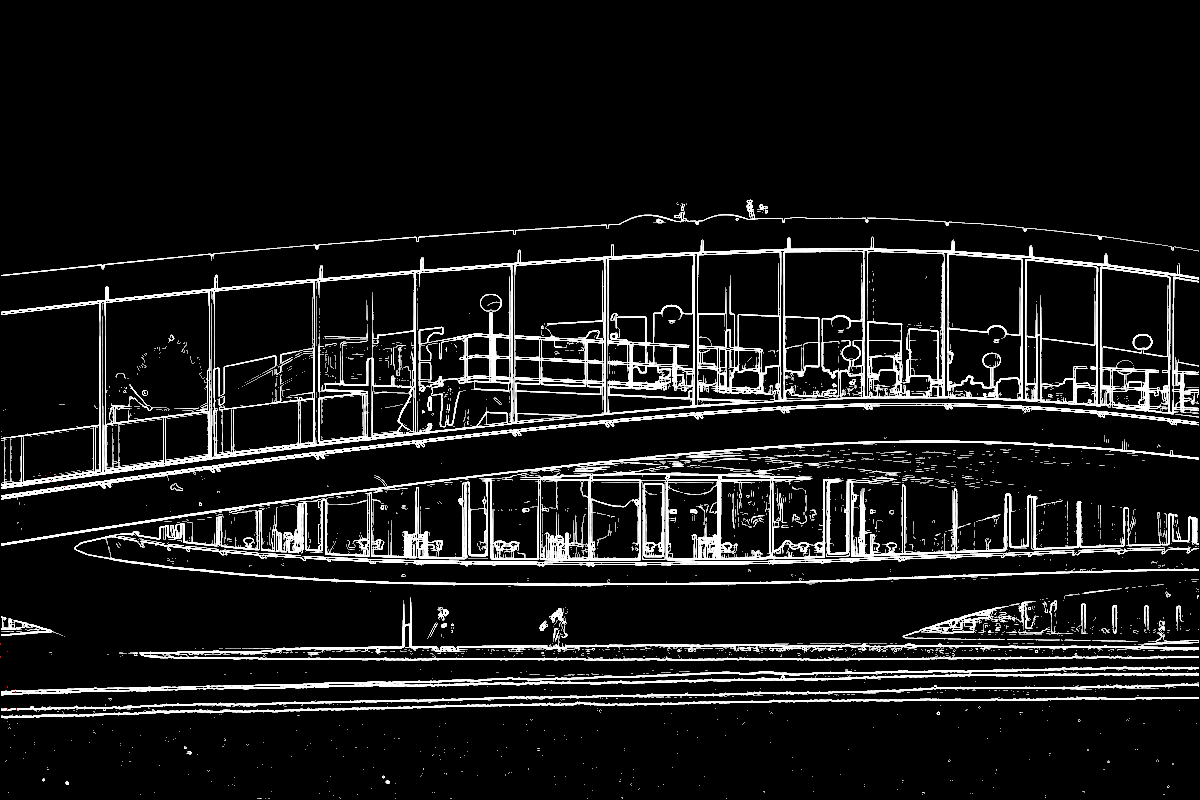
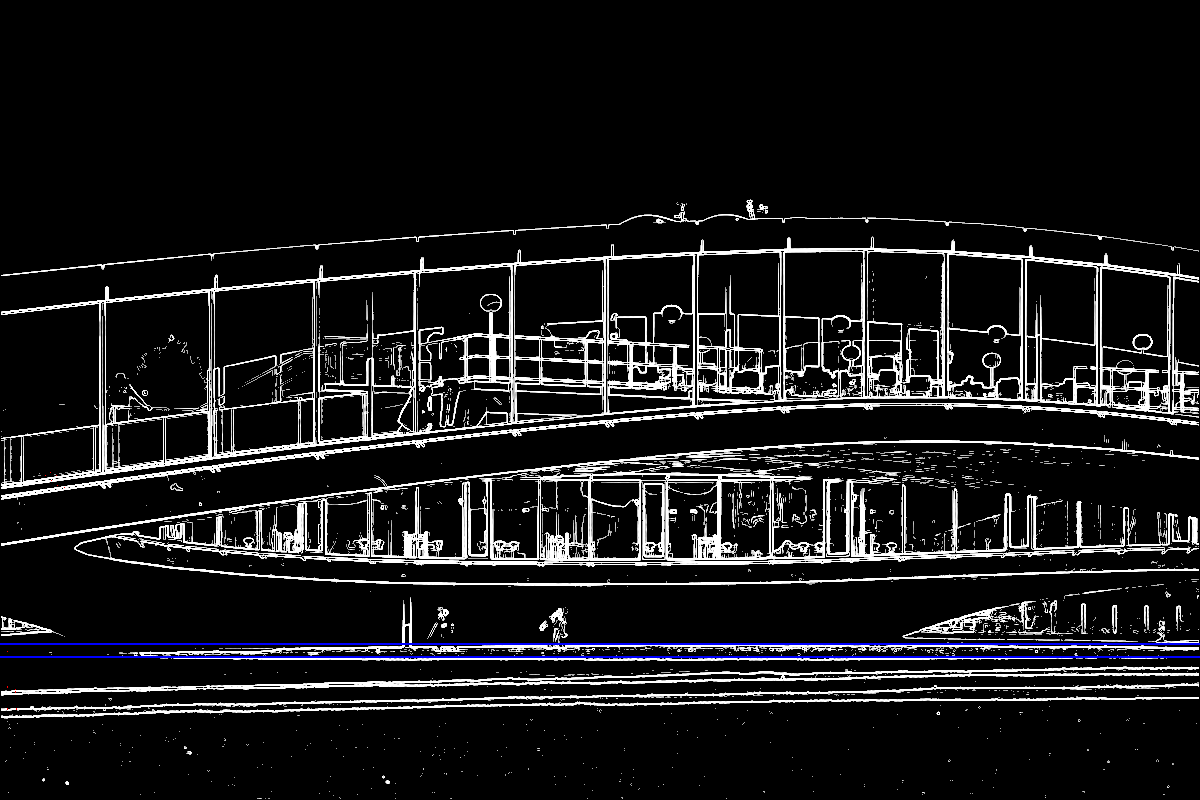
Draw horizontal lines + width and height are now arguments of the draw line

diff --git a/host/src/PNGimg.cpp b/host/src/PNGimg.cpp
@@ -174,13 +174,12 @@ void write_png_file(int width, int height, png_bytep *row_pointers) {
 	  fclose(fp);
 }
 
-void draw_line(png_bytep *rows, int rDim, int phiDim, int accPos, float discR, float discPhi){
+void draw_line(	png_bytep *rows, int rDim, int phiDim, int accPos,
+		float discR, float discPhi, int width, int height ){
 	// accumulator format (r,phi)	
 
 	printf("Start drawing lines\n");
 
-	printf("id : %d, rDim %d, phiPos %d \n", accPos, rDim, accPos/rDim);
-	
 	// Since width of acc is rDim -> Xpos = pos % rDim
 	// Ypos = pos / rdim -> int / int always floored (if both positive)
 	float r = (accPos % rDim) * discR ;
@@ -192,7 +191,7 @@ void draw_line(png_bytep *rows, int rDim, int phiDim, int accPos, float discR, f
 	
 	int yPixel = (int) ( r * sin( phi ) );
 
-	printf("Pixel x : %d , Pixel y : %d\n", xPixel, yPixel);
+	printf("Pixel x : %d , Pixel y : %d , ", xPixel, yPixel);
 
 	png_bytep row = rows[yPixel];
 	
@@ -202,4 +201,21 @@ void draw_line(png_bytep *rows, int rDim, int phiDim, int accPos, float discR, f
 	pixel[1] = 0;
 	pixel[2] = 0;
 
+	/**
+ 	*  Since we have (x,y) pixel the line goes from (0,0) to (x,y)
+ 	*  we can find his slope (y-0)/(x-0) invert it to make it go
+ 	*  if slope = y/x then perpendicular orthSlope = - 1/slope 
+	*/
+
+	if(xPixel == 0){ // horizontal line
+		for(int i = 0 ; i < width; i++){
+			row = rows[yPixel];
+			pixel =&(row[i * 4]);
+			pixel[0] = 0;
+			pixel[1] = 0;
+			pixel[2] = 255;
+		}
+	} 
+//	printf("pente : %f\n", slope);
+	//while()
 }

diff --git a/host/src/PNGimg.h b/host/src/PNGimg.h
@@ -7,4 +7,5 @@ int openImg(int* a_width, int* a_height, png_bytep **rows);
 int getRGBpixel(int **r, int **g, int **b, int width, int height, png_bytep *rows);
 void write_png_file(int width, int height, png_bytep *row_pointers);
 void process(int width, int height, png_bytep *rows, int* grey);
-void draw_line(png_bytep *rows, int rDim, int phiDim, int accPos, float discR, float discPhi);
+void draw_line(	png_bytep *rows, int rDim, int phiDim, int accPos,
+		float discR, float discPhi, int width, int height);

diff --git a/host/src/faces.cpp b/host/src/faces.cpp
@@ -87,7 +87,8 @@ int main(){
 	process(width, height, row_pointers, sobel);
 	
 	for(int i = 0 ; i < NB_LINES ; i++){
-		draw_line(row_pointers, rDim_s, phiDim_s, lineIDs[i], DISCRETE_R, DISCRETE_PHI);
+		draw_line(row_pointers, rDim_s, phiDim_s, lineIDs[i],
+		 DISCRETE_R, DISCRETE_PHI, width, height);
 	}
 
 	write_png_file(width, height, row_pointers);
